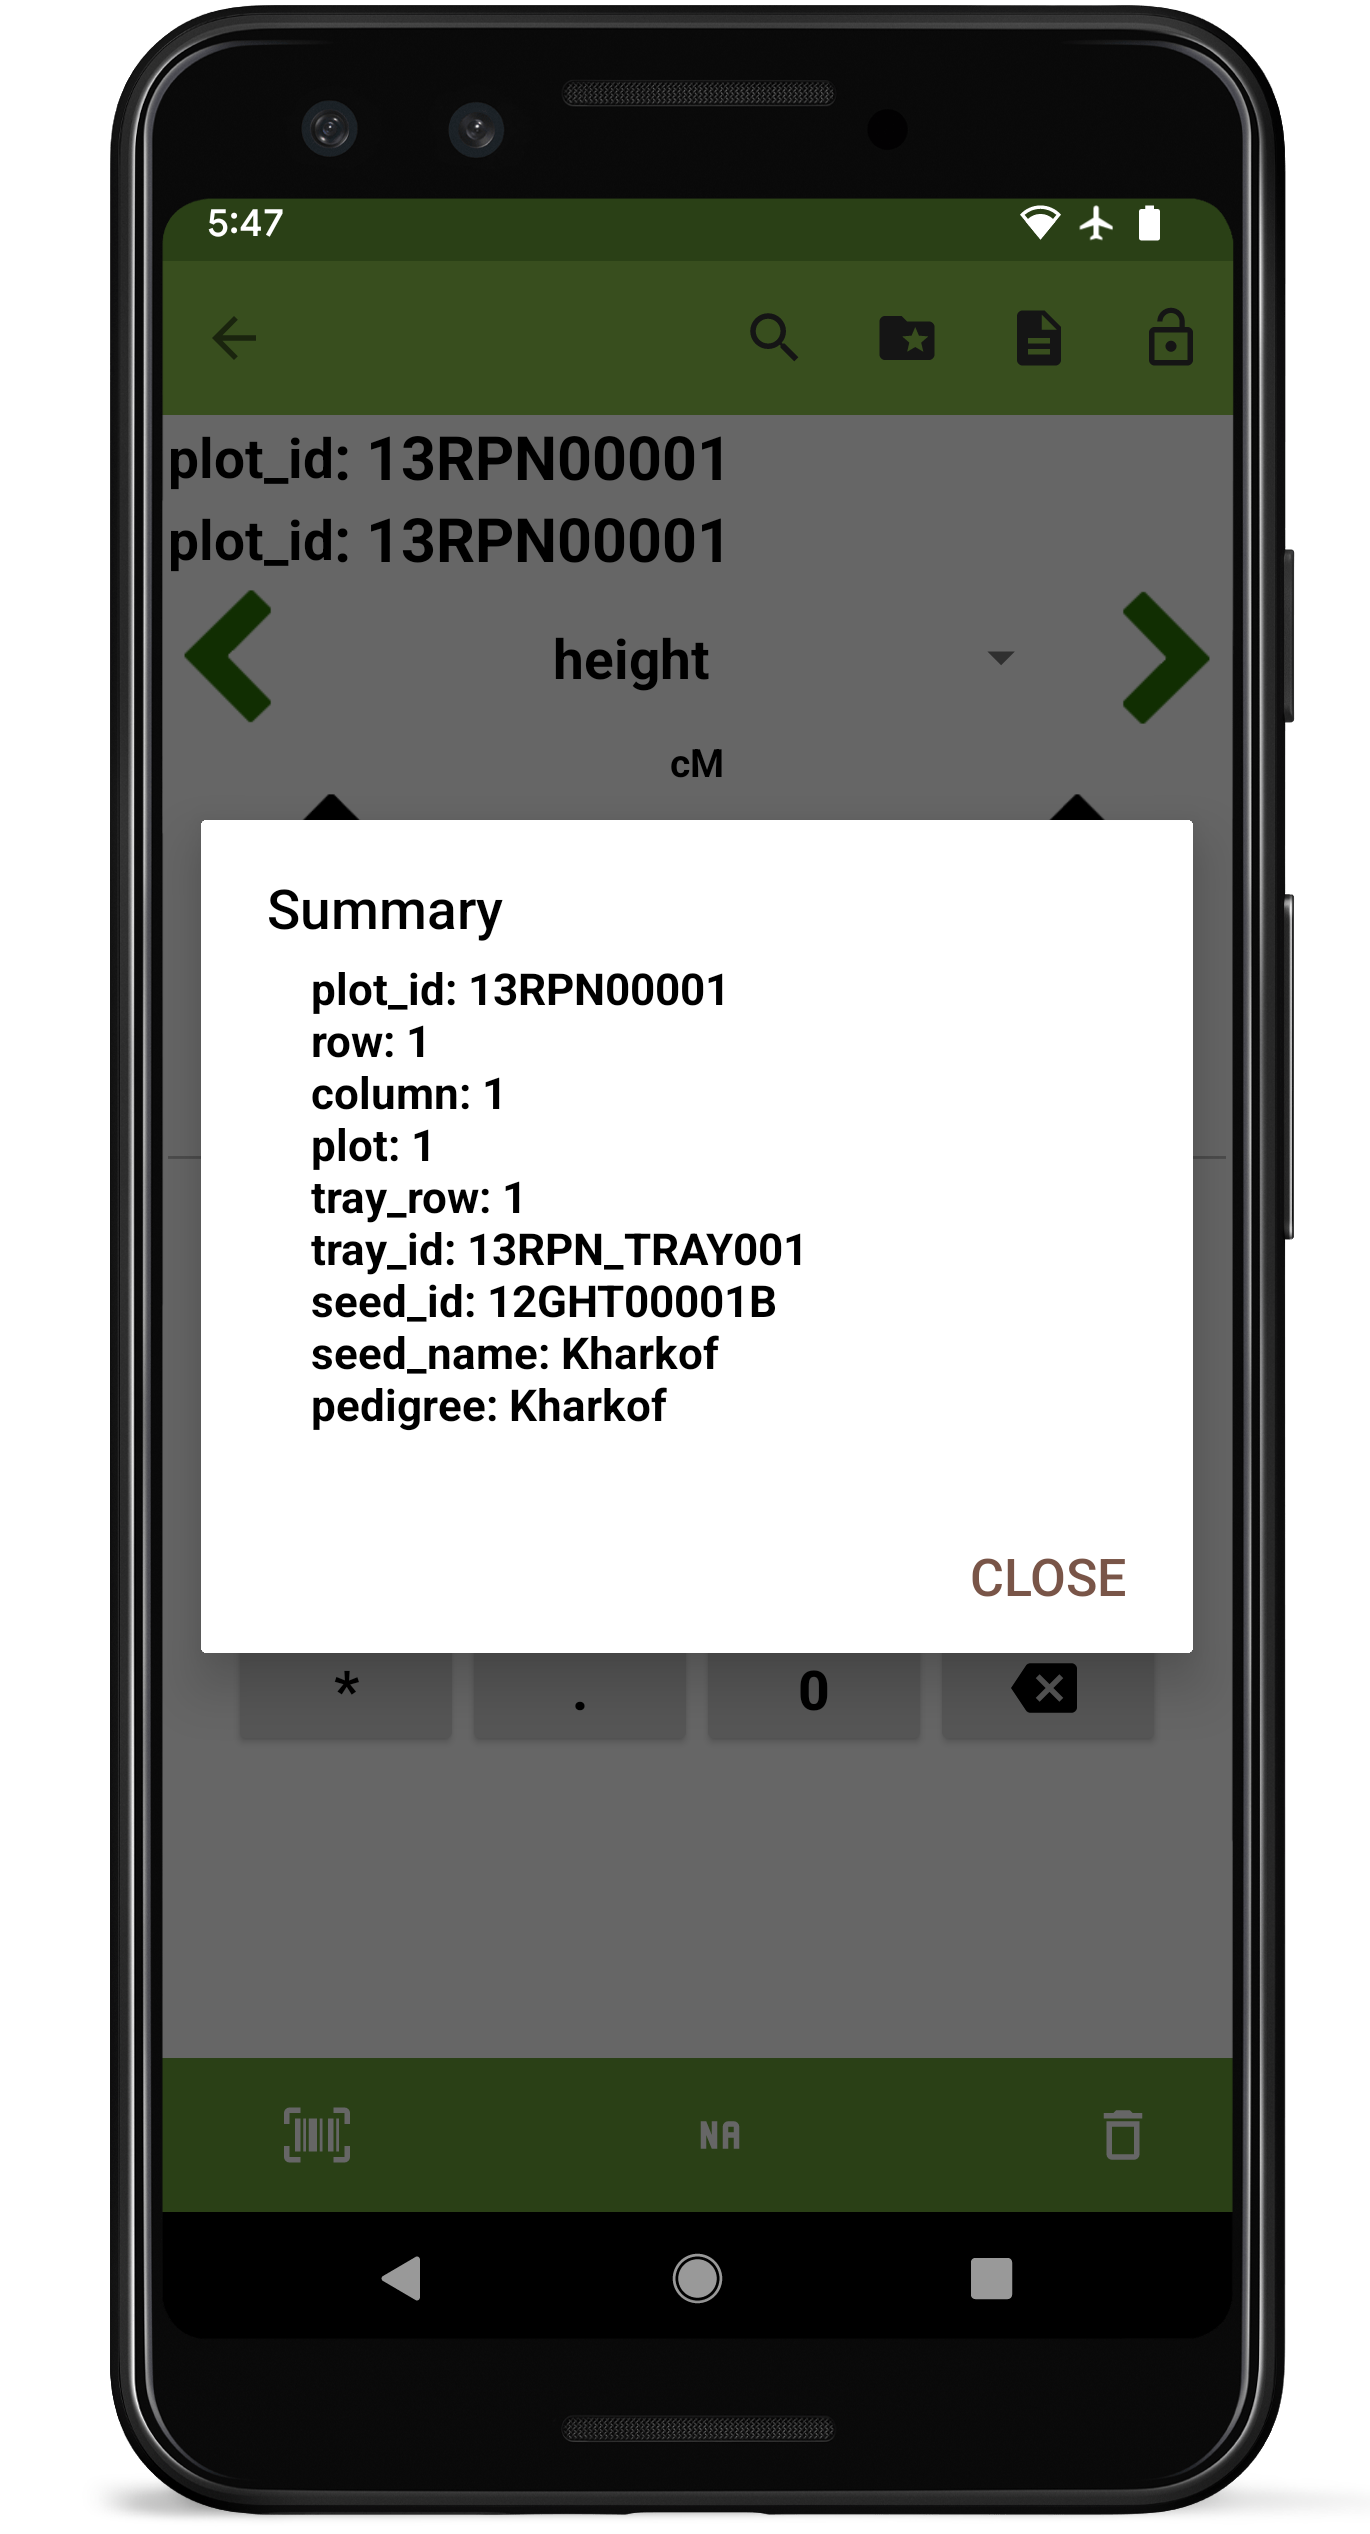
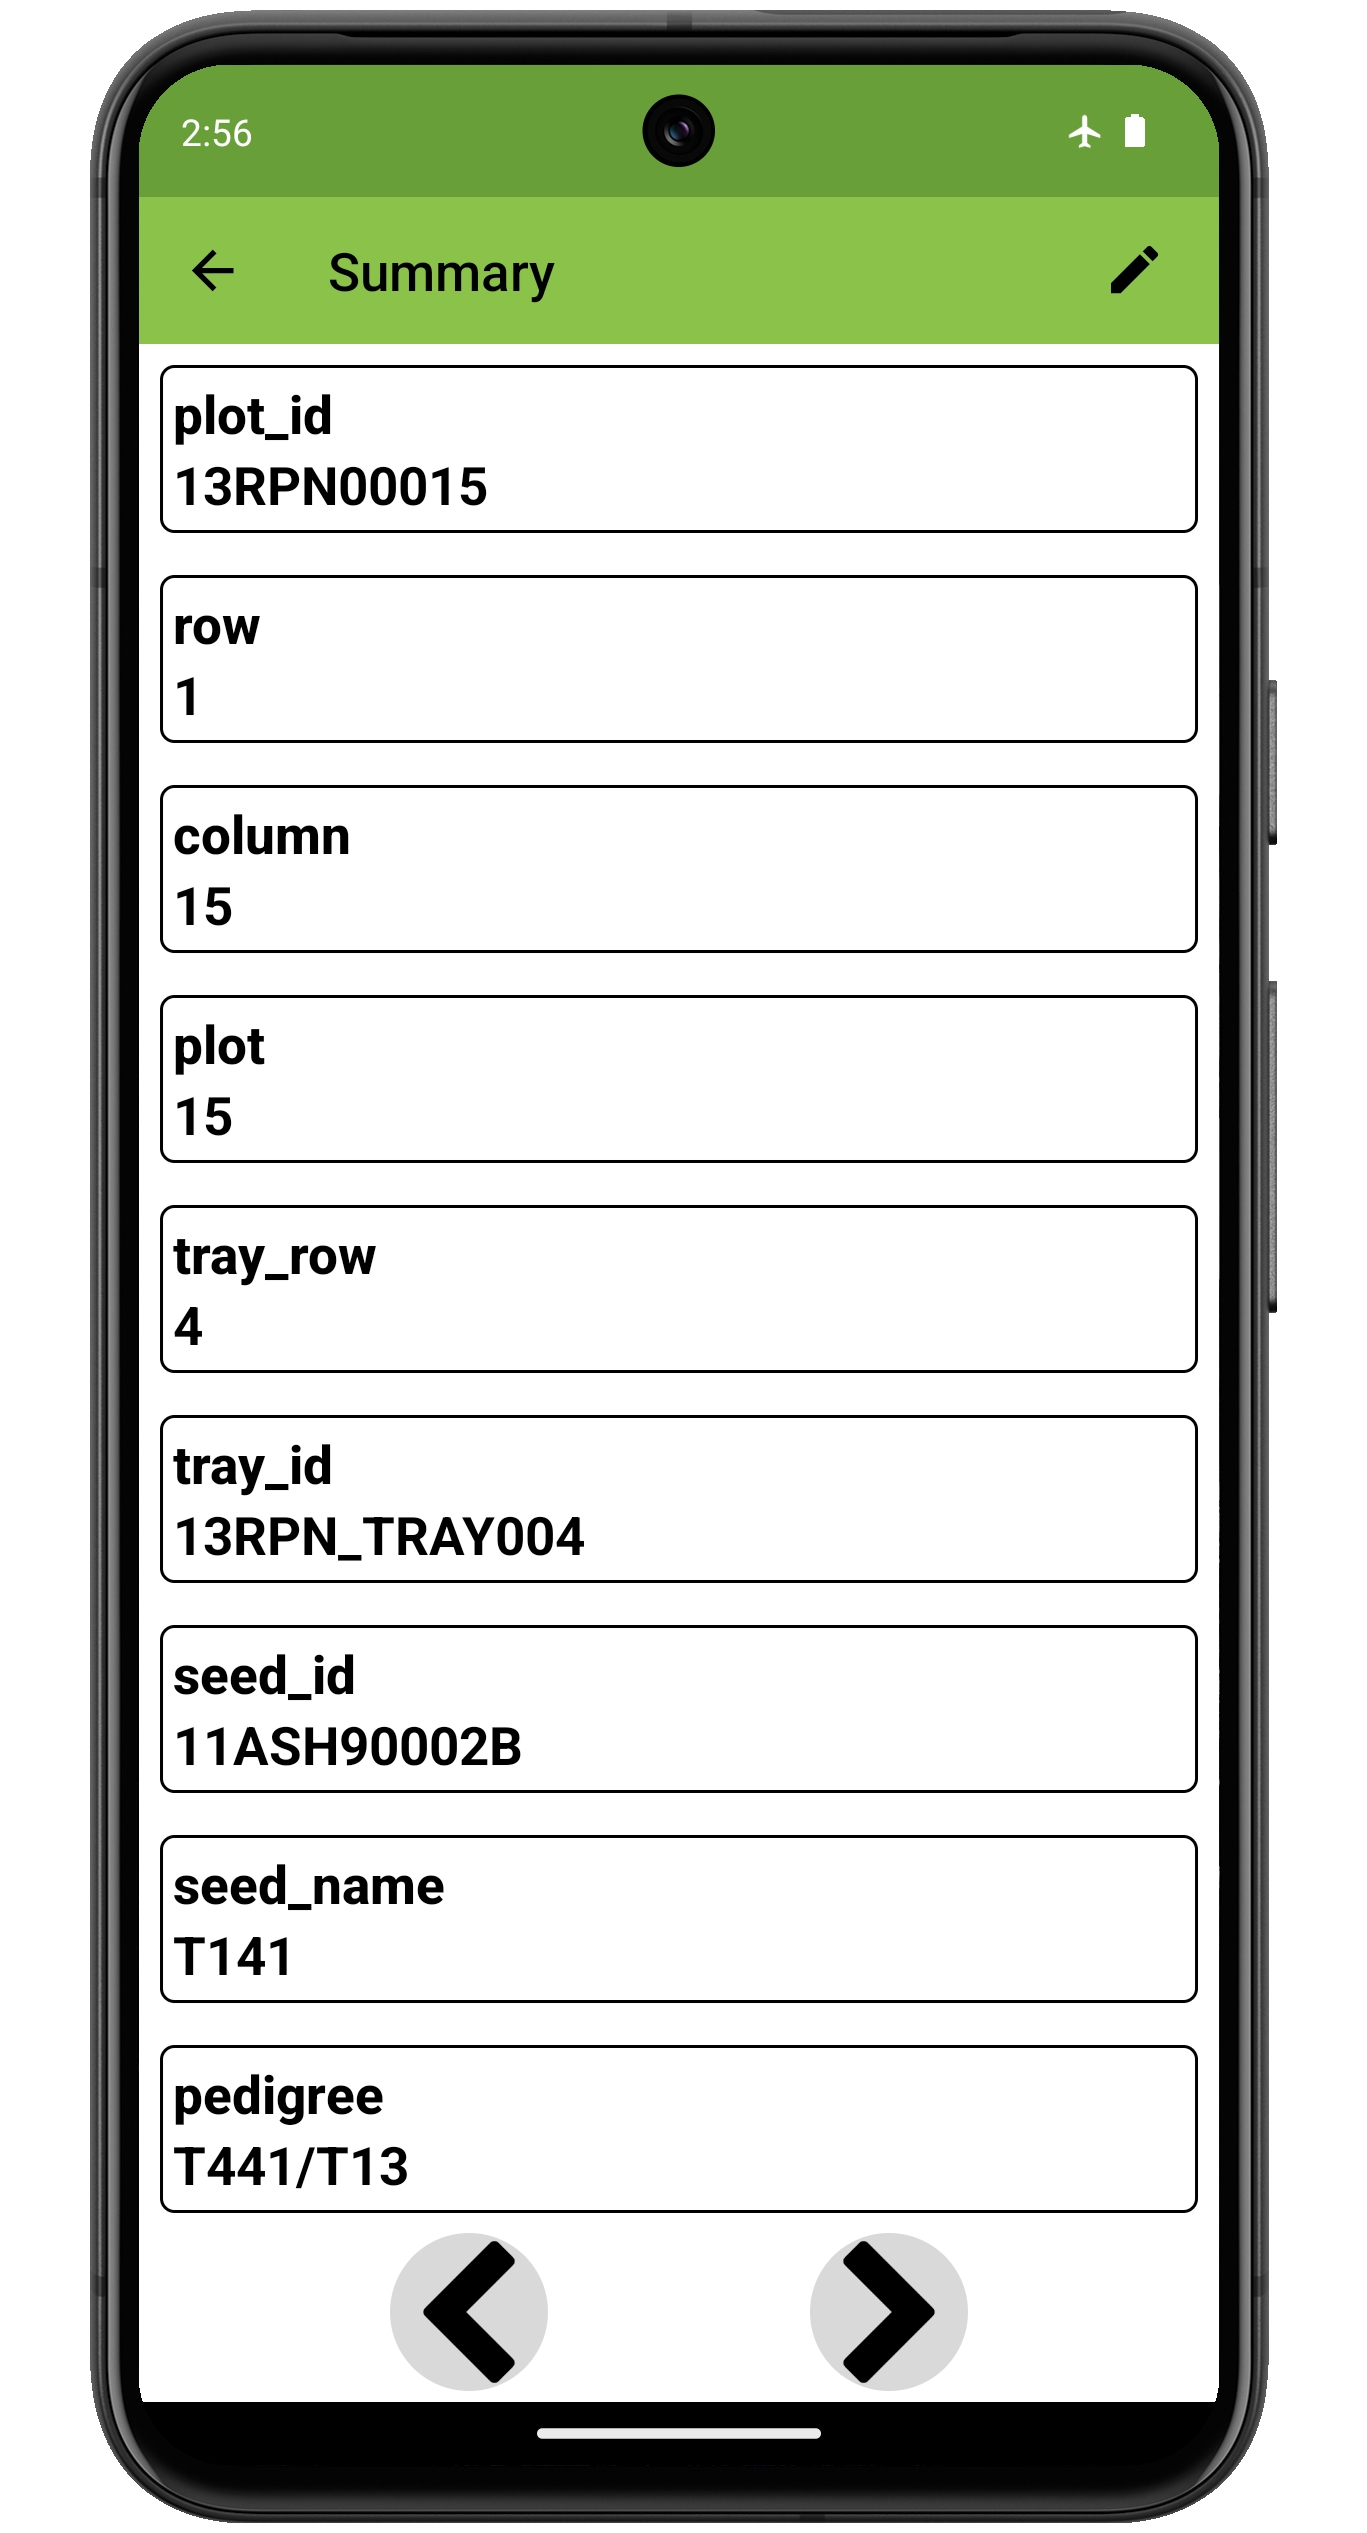
collect updates

diff --git a/docs/collect.md b/docs/collect.md
@@ -6,13 +6,13 @@ Overview
 
 Field Book aims to increase the rate at which data can be collected by
 tailoring the input screen to fit the exact task. Only a single entry
-and trait are visible at a time during collection. This reduces the risk
-of error and allows trait-specific layouts to be used for data input.
+and trait are visible at a time during collection. This reduces the risk of error and allows trait-specific layouts to be used for data input.
 
-The small green arrows are used to navigate between traits. The large
-black arrows are used to navigate between entries. Data is entered in
-the bottom area of the screen using a layout determined by the current
-trait. Data is saved to an internal database as it is collected.
+The small green arrows are used to navigate between traits. A line of dots below the arrows represent the individual traits, and the progression through them for the current entry.
+
+The large black arrows are used to navigate between entries. The progress bar above them indicates progress through the entries.
+
+Data is entered in the bottom area of the screen using a layout determined by the current trait. Entered values turn from black to red once they have been saved to Field Book's internal database.
 
 <figure align="center" class="image">
   <img src="_static/images/collect/collect_framed.png" width="400px"> 
@@ -29,22 +29,19 @@ to the back navigation arrow).
 
 -   <img ref="search" style="vertical-align: middle;" src="_static/icons/collect/magnify.png" width="20px"> **Search** opens a dialog to search for a specific entry.
 
-    <figure align="center" class="image">
-      <img src="_static/images/collect/collect_search_dialog.png" width="325px"> 
-      <figcaption><i>The collect screen search tool</i></figcaption> 
-    </figure>
+<figure align="center" class="image">
+  <img src="_static/images/collect/collect_search_steps_joined.png" width="1100px"> 
+  <figcaption><i>The collect screen search tool</i></figcaption> 
+</figure>
 
-The search dialog provides a flexible interface for finding a specific
-entry within the current field. Select which imported data field to
-search by, what strategy to use to find a match, and enter a search
-string. Press Add to construct a complex search with an additional field
-and search string, or press OK to execute the search.
+The search dialog provides a flexible interface to search for specific entries. Populate the search menu by pressing the <img ref="plus" style="vertical-align: middle;" src="_static/icons/fields/plus.png" width="20px"> icon, and selecting from the list of attributes, traits, or other columns. Once a search column is added you can enter a search string on it's blank text entry line. Press the <img ref="sort" style="vertical-align: middle;" src="_static/icons/collect/equal-box.png" width="20px"> icon if you'd like to change the operator from "equals" to "contains", or numeric operators like ">" or "<". Press the <img ref="delete" style="vertical-align: middle;" src="_static/icons/settings/sounds/delete.png" width="20px"> icon to remove a column. Add as many search columns as you like, then press search. The search will return a table of matching results, press any line in the results table to jump to that entry.
 
-- <img ref="resources" style="vertical-align: middle;" src="_static/icons/collect/folder-star.png" width="20px"> **Resources** opens the `resources` folder and can be used to load reference images.
+- <img ref="resources" style="vertical-align: middle;" src="_static/icons/collect/folder-star.png" width="20px"> **Resources** opens the `resources` folder and can be used to load reference images. Long press the icon to jump directly to the most recently loaded file, rather than the file picker.
+
 - <img ref="summary" style="vertical-align: middle;" src="_static/icons/collect/file-document.png" width="20px"> **Summary** opens a dialog that displays all info for the current entry.
 
 <figure align="center" class="image">
-  <img src="_static/images/collect/collect_summary_screen.png" width="325px"> 
+  <img src="_static/images/collect/collect_summary_joined.png" width="700px"> 
   <figcaption><i>The collect screen summary tool</i></figcaption> 
 </figure>
 
@@ -67,7 +64,7 @@ trait.
 -   <img ref="partial" style="vertical-align: middle;" src="_static/icons/collect/lock-clock.png" width="20px"> **Limited** freezes existing data but allows entry of new values.
 
 More tools can be added to the toolbar in the
-<a href="settings-general.md"><img style="vertical-align: middle;" src="_static/icons/home/cog.png" width="20px"></a> [General Settings](settings-general.md). Default tools can be removed from the toolbar in <a href="settings-appearance.md"><img style="vertical-align: middle;" src="_static/icons/settings/appearance/view-grid-outline.png" width="20px"></a> [Appearance Settings](settings-appearance.md).
+<a href="settings-features.md"><img style="vertical-align: middle;" src="_static/icons/settings/main/star-circle-outline.png" width="20px"></a> [Features Settings](settings-features.md). Default tools can be removed from the toolbar in <a href="settings-appearance.md"><img style="vertical-align: middle;" src="_static/icons/settings/appearance/view-grid-outline.png" width="20px"></a> [Appearance Settings](settings-appearance.md).
 
 #### InfoBars
 
@@ -80,9 +77,11 @@ InfoBars display information about the current plot. InfoBar prefixes
 can be pressed to adjust which data field is displayed.
 
 <figure align="center" class="image">
-  <img src="_static/images/collect/collect_infobar_menu_framed.png" width="400px"> 
-  <figcaption><i>Selecting which data field is shown in the InfoBars</i></figcaption> 
+  <img src="_static/images/collect/collect_infobar_joined.png" width="700px"> 
+  <figcaption><i>Customizing the infoBar section</i></figcaption> 
 </figure>
+
+An infobar can show one of the attributes imported with the field, or the value of a trait. The number of infobars can also be changed by pressing "customize" in the bottom left of the dialog, this navigates the the "numnber of infobars" preference in the <a href="settings-appearance.md"><img style="vertical-align: middle;" src="_static/icons/settings/appearance/view-grid-outline.png" width="20px"></a> [Appearance Settings](settings-appearance.md).
 
 #### Trait navigation
 
@@ -93,12 +92,12 @@ can be pressed to adjust which data field is displayed.
 
 The small, green arrows are used to move between the different traits
 that are currently active. Pressing the current trait will show a
-dropdown of all currently active traits.
+dialog of all currently active traits, select a different trait to jump to it.
 
 <figure align="center" class="image">
   <img src="_static/images/collect/collect_trait_menu_framed.png" width="400px"> 
   <figcaption><i>Pressing the active trait to see the trait
-dropdown</i></figcaption> 
+dialog</i></figcaption> 
 </figure>
 
 #### Entry navigation

diff --git a/docs/fields.md b/docs/fields.md
@@ -153,7 +153,7 @@ The first collapsible section includes metadata about the field (import source, 
 
   - **Rename** is used to edit the name displayed for the field throughout the app.
 
-  - **Sort** provides a dialog to update the plot ordering. Populate the sort menu by pressing the <img ref="plus" style="vertical-align: middle;" src="_static/icons/fields/plus.png" width="20px"> icon, and selecting from the list of imported columns. Once columns have been added, change their relative priority by using the <img ref="reorder" style="vertical-align: middle;" src="_static/icons/traits/reorder-horizontal.png" width="20px"> icon to drag and reorder them. Press the <img ref="sort" style="vertical-align: middle;" src="_static/icons/fields/sort.png" width="20px"> icon to toggle the sort between ascending and descending. Press the <img ref="delete" style="vertical-align: middle;" src="_static/icons/settings/sounds/delete.png" width="20px"> icon to remove a column.
+  - **Sort** provides a dialog to update the entry ordering. Populate the sort menu by pressing the <img ref="plus" style="vertical-align: middle;" src="_static/icons/fields/plus.png" width="20px"> icon, and selecting from the list of imported columns. Once columns have been added, change their relative priority by using the <img ref="reorder" style="vertical-align: middle;" src="_static/icons/traits/reorder-horizontal.png" width="20px"> icon to drag and reorder them. Press the <img ref="sort" style="vertical-align: middle;" src="_static/icons/fields/sort.png" width="20px"> icon to toggle the sort between ascending and descending. Press the <img ref="delete" style="vertical-align: middle;" src="_static/icons/settings/sounds/delete.png" width="20px"> icon to remove a column.
 
 The following sections can be pressed to <a href="collect.md"><img style="vertical-align: middle;" src="_static/icons/home/barley.png" width="20px"></a>[Collect](collect.md) data for the field, <a href="export.md"><img style="vertical-align: middle;" src="_static/icons/home/save.png" width="20px"></a> [Export](export.md) the field's data, and (if the field was imported via BrAPI) <a href="brapi.md"><img style="vertical-align: middle;" src="_static/icons/settings/main/server-network.png.png" width="20px"></a> [Brapi](brapi.md) the field's data by pulling in any new observations.
 
